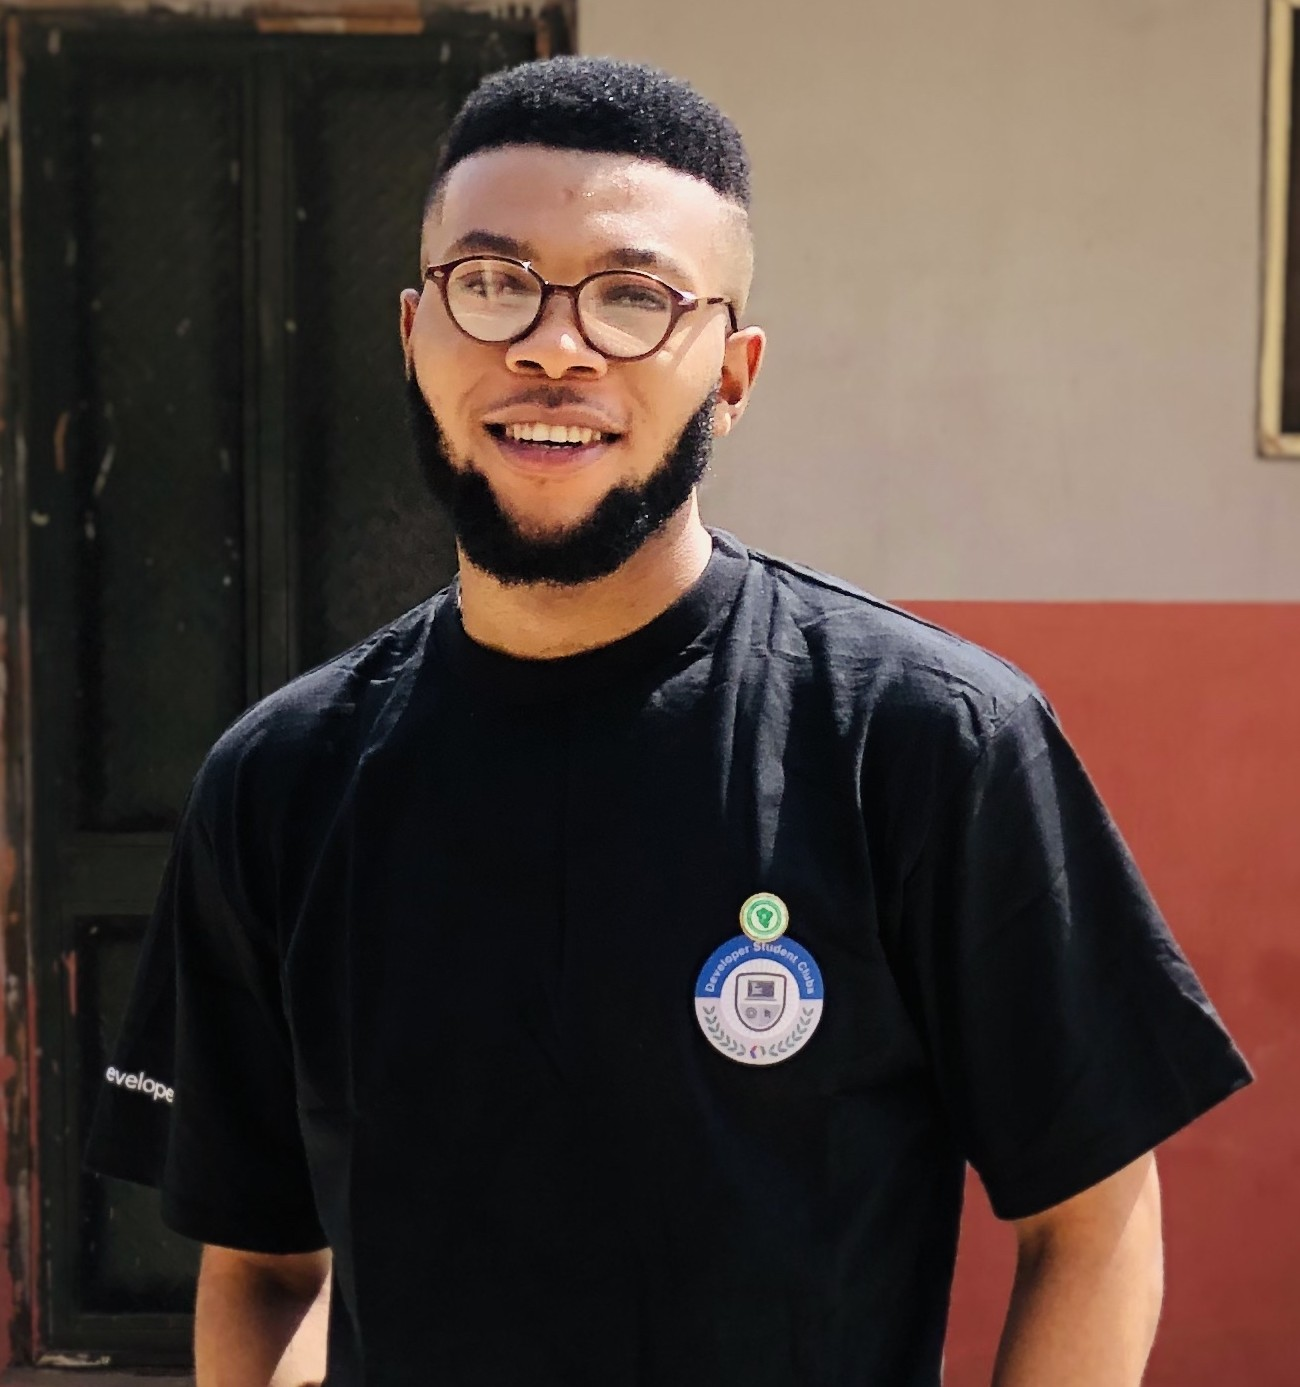
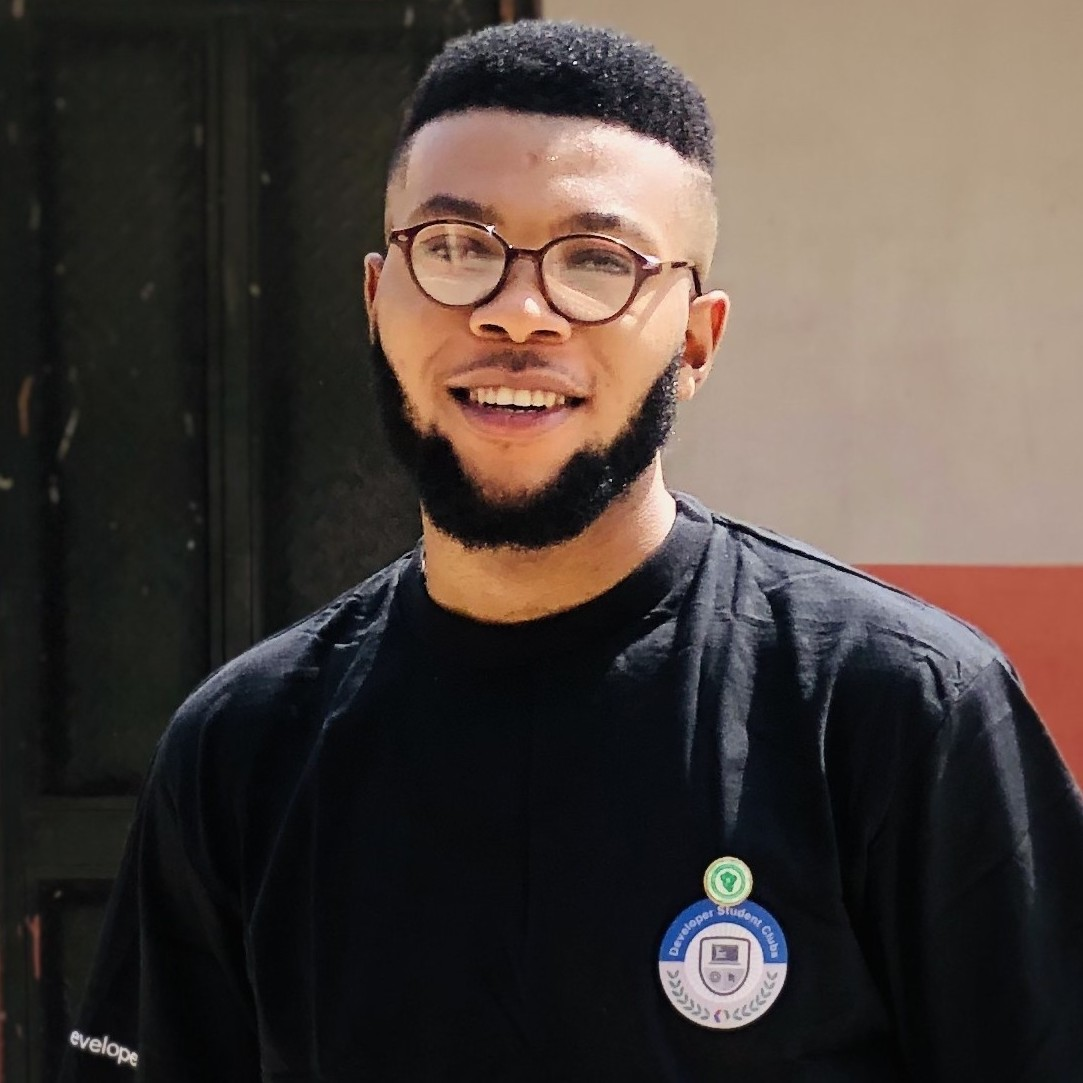
added header

diff --git a/public/index.html b/public/index.html
@@ -4,15 +4,21 @@
     <meta charset="UTF-8" />
     <meta http-equiv="X-UA-Compatible" content="IE=edge" />
     <meta name="viewport" content="width=device-width, initial-scale=1.0" />
-    <link rel="stylesheet" href="style.css" />
     <title>Clement Nnamdi</title>
+    <link rel="stylesheet" href="style.css" />
     <link
       rel="stylesheet"
       href="https://cdnjs.cloudflare.com/ajax/libs/font-awesome/5.15.3/css/all.min.css"
     />
   </head>
   <body class="antialised text-gray-600">
-    <section>
+    <div class="absolute w-full min-h-screen">
+      <div
+        class="absolute top-0 w-full h-1/2 bg-cover bg-bottom"
+        style="background-image: url('./img/bg.jpg')"
+      ></div>
+    </div>
+    <section class="flex justify-center items-center min-h-screen">
       <div class="relative">
         <div
           class="
@@ -30,15 +36,27 @@
             rounded-md
           "
         ></div>
-        <div class="relative z-10 bg-white p-12 flex rounded-md shadow-md">
+
+        <div
+          class="
+            relative
+            md:flex
+            space-x-12
+            z-10
+            bg-white
+            p-12
+            rounded-md
+            shadow-md
+          "
+        >
           <div class="flex flex-col space-y-6 py-4">
-            <div>
+            <div class="pt-14">
               <p class="text-lg">Hello, I am</p>
               <h1 class="text-5xl font-bold text-gray-800">Nnamdi Clement</h1>
             </div>
-            <p class="text-xl leading-relaxed">
-              A Frontend Web Developer who crafts beautiful websites that helps
-              your business grow online.
+            <p class="text-lg leading-relaxed">
+              Frontend Web Developer who crafts beautiful websites that helps
+              your business grow
             </p>
             <div class="inline-flex space-x-4 text-xl">
               <i class="fab fa-youtube"></i>
@@ -46,12 +64,19 @@
               <i class="fab fa-linkedin"></i>
               <i class="fab fa-github"></i>
             </div>
-            <img
-              src="./img/profile.jpeg"
-              alt="Profile Img"
-              class="w-74 rounded-full border-6 border-white shadow-md"
-            />
           </div>
+          <img
+            src="./img/IMG_4528.jpeg"
+            alt=""
+            class="
+              w-25
+              md:max-h-30 md:max-w-xl
+              rounded-full
+              border-6 border-white
+              shadow-md
+              flex-shrink-0
+            "
+          />
         </div>
       </div>
     </section>
